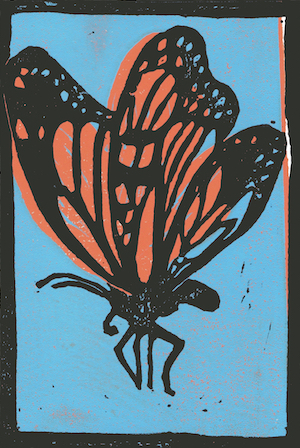
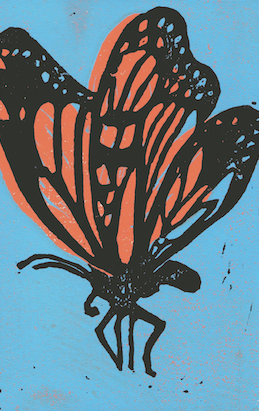
position shifts for violin and monarch thumbs on portfolio

diff --git a/docs/hannah/art/portfolio/index.html b/docs/hannah/art/portfolio/index.html
@@ -91,10 +91,10 @@ html,body,h1,h2,h3,h4,h5 {font-family: "Raleway", sans-serif}
 <!-- Photo Grid -->
   <div id="gridpocket">
     <div id="grid">
-      <span><div class="hz print" data-src='../../images/portfolio/thumbs/violin.jpeg' style="background: url('../../images/portfolio/blank.png') 0% 0% no-repeat;"></div></span>
+      <span><div class="hz print" data-src='../../images/portfolio/thumbs/violin.jpeg' style="background: url('../../images/portfolio/blank.png') 30% 0% no-repeat;"></div></span>
       <span><div class="vt print" data-src='../../images/portfolio/thumbs/puzzletree.jpg' style="background: url('../../images/portfolio/blank.png') 0% 0% no-repeat;"></div></span>
       <span><div class="vt print" data-src='../../images/portfolio/thumbs/birdincage.jpg' style="background: url('../../images/portfolio/blank.png') 0% 20% no-repeat;"></div></span>
-      <span><div class="vt print" data-src='../../images/portfolio/thumbs/monarch.jpeg' style="background: url('../../images/portfolio/blank.png') 0% 30% no-repeat;"></div></span>
+      <span><div class="vt print" data-src='../../images/portfolio/thumbs/monarch.jpeg' style="background: url('../../images/portfolio/blank.png') 0% 70% no-repeat;"></div></span>
       <span><div class="hz drawing" data-src='../../images/portfolio/thumbs/thislandissacred.jpg' style="background: url('../../images/portfolio/blank.png') 50% 0% no-repeat;"></div></span>
       <span><div class="hz watercolor drawing" data-src='../../images/portfolio/thumbs/timhstained.png' style="background: url('../../images/portfolio/blank.png') 50% 0% no-repeat;"></div></span>
       <span><div class="hz print" data-src='../../images/portfolio/thumbs/canarycover.jpeg' style="background: url('../../images/portfolio/blank.png') 50% 0% no-repeat;"></div></span>

diff --git a/docs/js/highlight/CHANGES/index.html b/docs/js/highlight/CHANGES/index.html
@@ -652,7 +652,7 @@ changes that happened during the past year. Sorry for taking so long!</p>
 <p>Along with the changes in code highlight.js has finally got its new home at
 <a href="http://highlightjs.org/">http://highlightjs.org/</a>, moving from its cradle on Software Maniacs which it
 outgrew a long time ago. Be sure to report any bugs about the site to</p>
-<p><a href="&#109;&#97;&#x69;&#x6c;&#116;&#111;&#58;&#x69;&#110;&#102;&#x6f;&#64;&#104;&#x69;&#x67;&#104;&#108;&#105;&#103;&#x68;&#116;&#106;&#115;&#x2e;&#111;&#x72;&#x67;">&#x69;&#110;&#102;&#x6f;&#64;&#104;&#x69;&#x67;&#104;&#108;&#105;&#103;&#x68;&#116;&#106;&#115;&#x2e;&#111;&#x72;&#x67;</a>.</p>
+<p><a href="&#109;&#x61;&#105;&#x6c;&#x74;&#111;&#58;&#x69;&#x6e;&#x66;&#111;&#x40;&#x68;&#x69;&#103;&#104;&#x6c;&#105;&#x67;&#104;&#116;&#x6a;&#115;&#46;&#111;&#114;&#103;">&#x69;&#x6e;&#x66;&#111;&#x40;&#x68;&#x69;&#103;&#104;&#x6c;&#105;&#x67;&#104;&#116;&#x6a;&#115;&#46;&#111;&#114;&#103;</a>.</p>
 <p>On to what&#39;s new…</p>
 <p>New languages:</p>
 <ul>

diff --git a/src/hannah/art/portfolio.md b/src/hannah/art/portfolio.md
@@ -30,10 +30,10 @@ cssjsfile: "art_portfolio"
 <!-- Photo Grid -->
   <div id="gridpocket">
     <div id="grid">
-      <span><div class="hz print" data-src='../../images/portfolio/thumbs/violin.jpeg' style="background: url('../../images/portfolio/blank.png') 0% 0% no-repeat;"></div></span>
+      <span><div class="hz print" data-src='../../images/portfolio/thumbs/violin.jpeg' style="background: url('../../images/portfolio/blank.png') 30% 0% no-repeat;"></div></span>
       <span><div class="vt print" data-src='../../images/portfolio/thumbs/puzzletree.jpg' style="background: url('../../images/portfolio/blank.png') 0% 0% no-repeat;"></div></span>
       <span><div class="vt print" data-src='../../images/portfolio/thumbs/birdincage.jpg' style="background: url('../../images/portfolio/blank.png') 0% 20% no-repeat;"></div></span>
-      <span><div class="vt print" data-src='../../images/portfolio/thumbs/monarch.jpeg' style="background: url('../../images/portfolio/blank.png') 0% 30% no-repeat;"></div></span>
+      <span><div class="vt print" data-src='../../images/portfolio/thumbs/monarch.jpeg' style="background: url('../../images/portfolio/blank.png') 0% 70% no-repeat;"></div></span>
       <span><div class="hz drawing" data-src='../../images/portfolio/thumbs/thislandissacred.jpg' style="background: url('../../images/portfolio/blank.png') 50% 0% no-repeat;"></div></span>
       <span><div class="hz watercolor drawing" data-src='../../images/portfolio/thumbs/timhstained.png' style="background: url('../../images/portfolio/blank.png') 50% 0% no-repeat;"></div></span>
       <span><div class="hz print" data-src='../../images/portfolio/thumbs/canarycover.jpeg' style="background: url('../../images/portfolio/blank.png') 50% 0% no-repeat;"></div></span>
